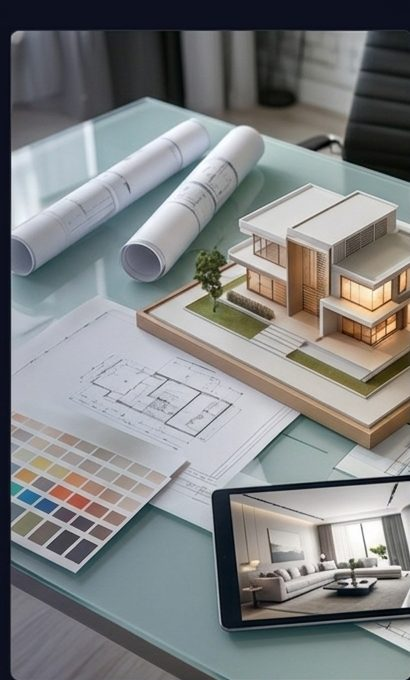
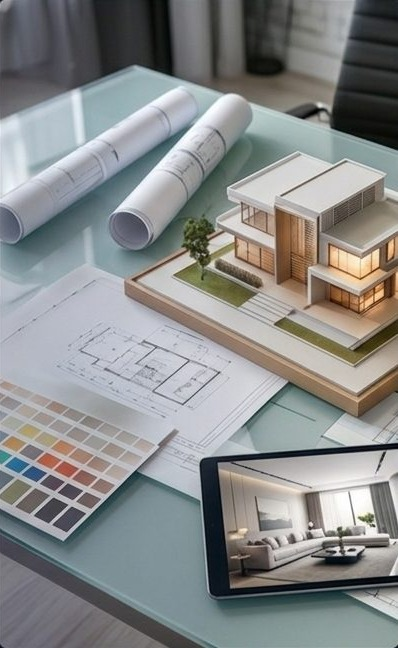
updated the website

diff --git a/index.html b/index.html
@@ -18,7 +18,7 @@
   <script src="https://cdn.tailwindcss.com/3.4.13"></script>
   <script>
     tailwind.config = {
-      corePlugins: { preflight: false },
+      corePlugins: { preflight: false, container: false },
       theme: {
         extend: {
           colors: {
@@ -238,9 +238,10 @@
       <h2 class="section-title section-title--center">
         Three integrated <span class="accent">solutions</span>
       </h2>
-      <div class="verticals-grid pf-reveal-stagger">
+    </div>
+    <div class="verticals-grid pf-reveal-stagger">
 
-        <div class="vertical-card notch-corner">
+        <div class="vertical-card">
           <div class="vertical-card-bg"
             style="background-image: url('src/assets/graphics/vertical-engineering.jpg');"></div>
           <div class="vertical-card-top">
@@ -288,7 +289,7 @@
           <a href="#contact" class="vertical-cta link-underline">Book a Free Consultation →</a>
         </div>
 
-        <div class="vertical-card notch-corner">
+        <div class="vertical-card">
           <div class="vertical-card-bg" style="background-image: url('src/assets/graphics/vertical-design-studio.jpg');">
           </div>
           <div class="vertical-card-top">
@@ -327,7 +328,7 @@
           <a href="#contact" class="vertical-cta link-underline">Design Consultation →</a>
         </div>
 
-        <div class="vertical-card notch-corner">
+        <div class="vertical-card">
           <div class="vertical-card-bg" style="background-image: url('src/assets/graphics/vertical-development-advisory.jpg');"></div>
           <div class="vertical-card-top">
             <div class="vertical-num">03</div>
@@ -358,7 +359,6 @@
         </div>
 
       </div>
-    </div>
   </section>
 
   <!-- ── WHY CHOOSE US ─────────────────────────────── -->
@@ -387,7 +387,7 @@
         </div>
 
         <div class="why-item">
-          <div class="card-media"><img src="src/assets/images/25 Plus Years Experience 2.jpg" alt="25+ Years Experience" loading="lazy"></div>
+          <div class="card-media"><img src="src/assets/images/25 Plus Years Experience 1.jpg" alt="25+ Years Experience" loading="lazy"></div>
           <div class="why-body">
             <div class="why-icon">
               <svg viewBox="0 0 32 32" fill="none" stroke="currentColor" stroke-width="1.5" width="26" height="26">
@@ -402,7 +402,7 @@
         </div>
 
         <div class="why-item">
-          <div class="card-media"><img src="src/assets/images/Specialized Expertise 2.jpg" alt="Specialized Expertise" loading="lazy"></div>
+          <div class="card-media"><img src="src/assets/images/Specialized Expertise 1.jpg" alt="Specialized Expertise" loading="lazy"></div>
           <div class="why-body">
             <div class="why-icon">
               <svg viewBox="0 0 32 32" fill="none" stroke="currentColor" stroke-width="1.5" width="26" height="26">
@@ -416,7 +416,7 @@
         </div>
 
         <div class="why-item">
-          <div class="card-media"><img src="src/assets/images/End-to-End Solutions 1.jpg" alt="End-to-End Solutions" loading="lazy"></div>
+          <div class="card-media"><img src="src/assets/images/End-to-End Solutions 2.jpg" alt="End-to-End Solutions" loading="lazy"></div>
           <div class="why-body">
             <div class="why-icon">
               <svg viewBox="0 0 32 32" fill="none" stroke="currentColor" stroke-width="1.5" width="26" height="26">
@@ -1360,23 +1360,23 @@
       </h2>
       <div class="certs-grid pf-reveal-stagger">
         <div class="cert-card notch-corner">
-          <div class="cert-badge">MSME</div>
+          <img src="src/assets/icons/MSME.png" alt="MSME Registered" class="cert-badge-img" />
           <div class="cert-name">MSME Registered</div>
         </div>
         <div class="cert-card notch-corner">
-          <div class="cert-badge">GST</div>
+          <img src="src/assets/icons/GST.png" alt="GST Registered" class="cert-badge-img" />
           <div class="cert-name">GST Registered</div>
         </div>
         <div class="cert-card notch-corner">
-          <div class="cert-badge">UDYAM</div>
+          <img src="src/assets/icons/UDYAM.png" alt="Udyam Registration" class="cert-badge-img" />
           <div class="cert-name">Udyam Registration</div>
         </div>
         <div class="cert-card notch-corner">
-          <div class="cert-badge">ISO</div>
+          <img src="src/assets/icons/ISO.png" alt="ISO Certified" class="cert-badge-img" />
           <div class="cert-name">ISO Certified</div>
         </div>
         <div class="cert-card notch-corner">
-          <div class="cert-badge">GOVT</div>
+          <img src="src/assets/icons/Governmant Aproved.png" alt="Government Approved" class="cert-badge-img" />
           <div class="cert-name">Government Approved</div>
         </div>
         <div class="cert-card notch-corner">

diff --git a/style.css b/style.css
@@ -474,7 +474,6 @@ button { cursor: pointer; border: none; background: none; font-family: inherit; 
 }
 .about-section    { background: var(--bg2); }
 .services-section { background: var(--surface); }
-.projects-section { background: var(--bg2); }
 .clients-section  { background: var(--surface2); }
 .testimonials-section { background: var(--surface); }
 .contact-section  { background: var(--bg2); }
@@ -1309,16 +1308,23 @@ button { cursor: pointer; border: none; background: none; font-family: inherit; 
 }
 
 /* ── BUSINESS VERTICALS ─────────────────────────────── */
-.verticals-section { background: var(--bg2); }
+.verticals-section { background: var(--bg2); padding-top: 0; scroll-margin-top: 6rem; }
+.verticals-section .section-title { margin-bottom: 2rem; }
 .verticals-grid {
   display: grid;
   grid-template-columns: repeat(3, 1fr);
   gap: 1.5rem;
-  margin-top: 3rem;
+  margin-top: 0;
+  max-width: 1400px;
+  margin-left: auto;
+  margin-right: auto;
+  padding: 0 2rem;
+  box-sizing: border-box;
 }
 .vertical-card {
+  position: relative;
   background: var(--surface);
-  border: 1px solid var(--border);
+  border: 0;
   border-radius: var(--radius-lg);
   padding: 2rem;
   display: flex;
@@ -1327,7 +1333,7 @@ button { cursor: pointer; border: none; background: none; font-family: inherit; 
   transition: border-color var(--transition), transform var(--transition);
 }
 .vertical-card:hover {
-  border-color: var(--border-gold);
+  box-shadow: 0 0 0 1px var(--border-gold);
   transform: translateY(-4px);
 }
 .vertical-card-top { display: flex; flex-direction: column; gap: 0.75rem; }
@@ -1656,9 +1662,8 @@ button { cursor: pointer; border: none; background: none; font-family: inherit; 
 /* ── CERTIFICATIONS ─────────────────────────────── */
 .certs-section { background: var(--bg); }
 .certs-grid {
-  display: flex;
-  justify-content: center;
-  flex-wrap: wrap;
+  display: grid;
+  grid-template-columns: repeat(6, 1fr);
   gap: 1.25rem;
   margin-top: 3rem;
 }
@@ -1667,11 +1672,10 @@ button { cursor: pointer; border: none; background: none; font-family: inherit; 
   flex-direction: column;
   align-items: center;
   gap: 0.6rem;
-  padding: 1.5rem 2rem;
+  padding: 1.5rem 1.25rem;
   background: var(--surface);
   border: 1px solid var(--border);
   border-radius: var(--radius-lg);
-  min-width: 120px;
   text-align: center;
   transition: border-color var(--transition);
 }
@@ -1684,9 +1688,9 @@ button { cursor: pointer; border: none; background: none; font-family: inherit; 
 }
 .cert-name { font-size: 0.72rem; color: var(--text-muted); }
 .cert-badge-img {
-  height: 2.2rem;
+  height: 4.5rem;
   width: auto;
-  max-width: 100px;
+  max-width: 140px;
   object-fit: contain;
   border-radius: 4px;
 }
@@ -2145,6 +2149,7 @@ button { cursor: pointer; border: none; background: none; font-family: inherit; 
   .why-grid        { grid-template-columns: 1fr 1fr; }
   .industries-grid { grid-template-columns: repeat(4, 1fr); }
   .knowledge-grid  { grid-template-columns: 1fr 1fr; }
+  .certs-grid      { grid-template-columns: repeat(3, 1fr); }
 }
 
 @media (max-width: 768px) {
@@ -2155,8 +2160,8 @@ button { cursor: pointer; border: none; background: none; font-family: inherit; 
   .industries-grid { grid-template-columns: repeat(3, 1fr); }
   .team-grid, .team-grid--3 { grid-template-columns: 1fr; max-width: 460px; }
   .knowledge-grid  { grid-template-columns: 1fr; }
-  .certs-grid      { gap: 0.75rem; }
-  .cert-card       { padding: 1.25rem 1.5rem; min-width: 100px; }
+  .certs-grid      { grid-template-columns: repeat(3, 1fr); gap: 0.75rem; }
+  .cert-card       { padding: 1.25rem 1rem; }
   .about-vm        { grid-template-columns: 1fr; }
 
   .contact-actions { flex-direction: column; }
@@ -2173,4 +2178,5 @@ button { cursor: pointer; border: none; background: none; font-family: inherit; 
   .industries-grid { grid-template-columns: repeat(2, 1fr); }
   .knowledge-grid  { grid-template-columns: 1fr; }
   .verticals-grid  { grid-template-columns: 1fr; }
+  .certs-grid      { grid-template-columns: repeat(2, 1fr); }
 }
